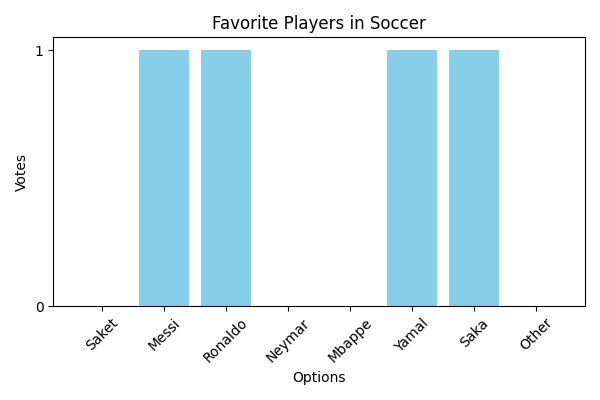
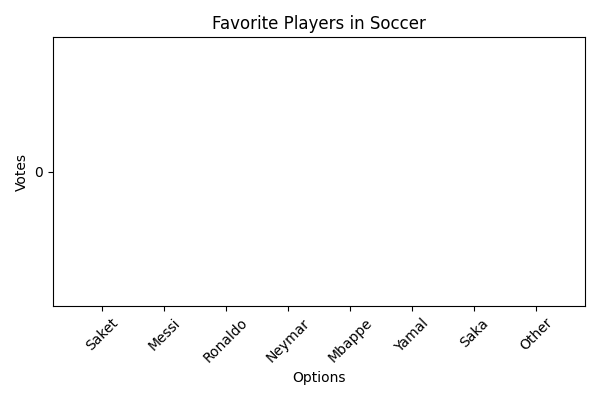
finished app

diff --git a/players_votes.py b/players_votes.py
@@ -1,1 +1,1 @@
-votes_players = {'Basketball': {'Lebron James': 0, 'Micheal Jordan': 0, 'Stephen Curry': 1, 'Kobe Bryant': 0, 'Shaq': 0, 'Other': 0}, 'Soccer': {'Saket': 0, 'Messi': 1, 'Ronaldo': 1, 'Neymar': 0, 'Mbappe': 0, 'Yamal': 1, 'Saka': 1, 'Other': 0}, 'Football': {'Tom Brady': 0, 'Jerry Rice': 0, 'Justin Jefferson Jr': 0, 'Tyreek Hill': 0, 'Deebo Samuel': 0, 'Other': 0}, 'Cricket': {'Yashasvi Jaiswal': 0, 'Heinrich Klaasen': 0, 'Rachin Ravindra': 0, 'Jasprit Bumrah': 0, 'Ravindra Jadeja': 1, 'Other': 0}}
+votes_players = {'Basketball': {'Lebron James': 0, 'Micheal Jordan': 0, 'Stephen Curry': 0, 'Kobe Bryant': 0, 'Shaq': 0, 'Other': 0}, 'Soccer': {'Saket': 0, 'Messi': 0, 'Ronaldo': 0, 'Neymar': 0, 'Mbappe': 0, 'Yamal': 0, 'Saka': 0, 'Other': 0}, 'Football': {'Tom Brady': 0, 'Jerry Rice': 0, 'Justin Jefferson Jr': 0, 'Tyreek Hill': 0, 'Deebo Samuel': 0, 'Other': 0}, 'Cricket': {'Yashasvi Jaiswal': 0, 'Heinrich Klaasen': 0, 'Rachin Ravindra': 0, 'Jasprit Bumrah': 0, 'Ravindra Jadeja': 0, 'Other': 0}}

diff --git a/sports_votes.py b/sports_votes.py
@@ -1,1 +1,1 @@
-votes_sports = {'Basketball': 1, 'Soccer': 9, 'Football': 1, 'Cricket': 1}
+votes_sports = {'Basketball': 0, 'Soccer': 0, 'Football': 0, 'Cricket': 0}
